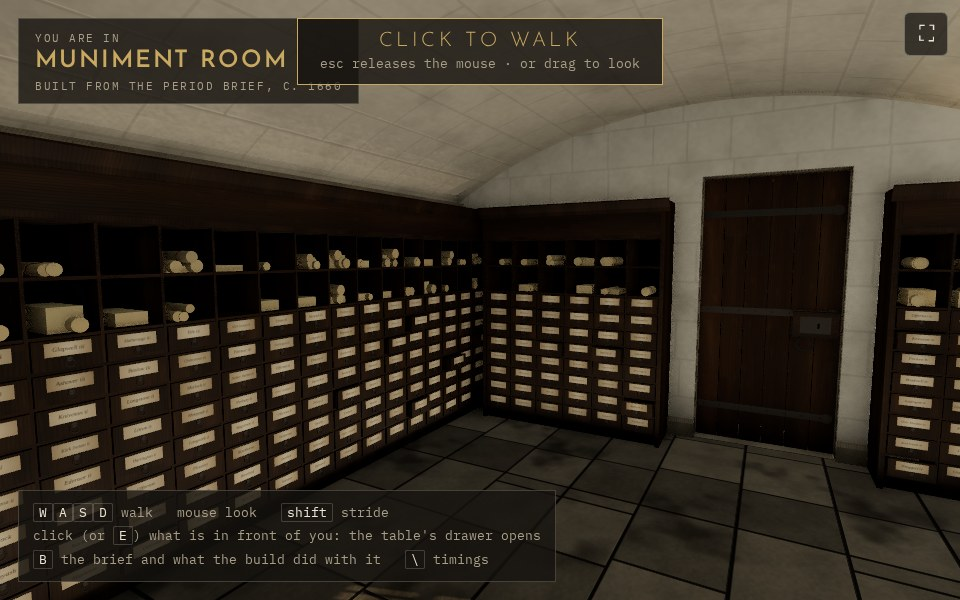
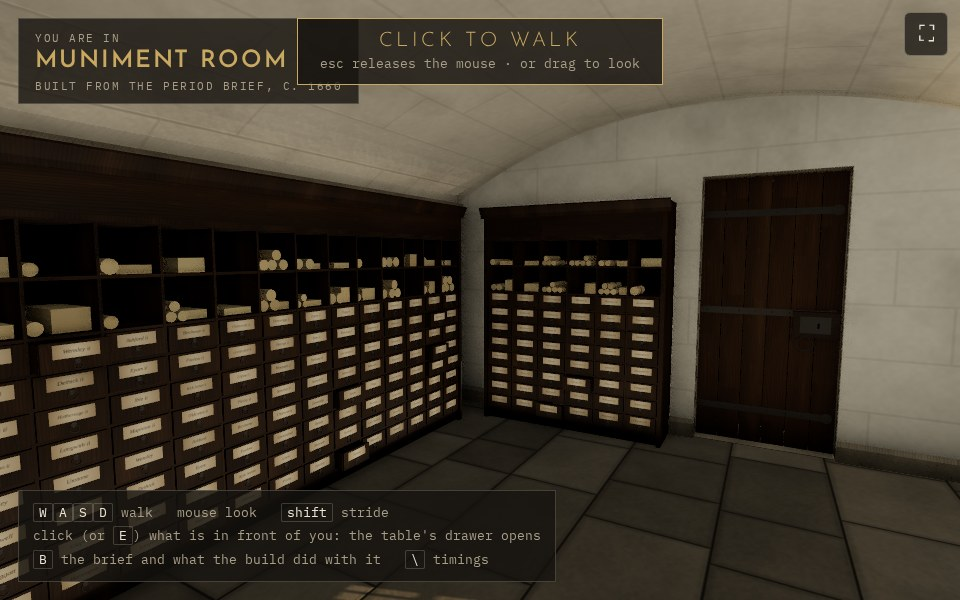
R45 fixes from Kabe's review: pigeonhole rolls and bundles packed, not scattered (no more intersecting); presses keep a press-depth clear of every corner, with a check that nothing stands where another piece needs room to be used (fails on the old build); the strongroom floor as large flags in cours
Claude-Session: https://claude.ai/code/session_017fM5F7BMx42kqDX56eijgW

diff --git a/lab/brief/strongroom.js b/lab/brief/strongroom.js
@@ -4,7 +4,7 @@
 // pigeonholes of rolled deeds over; an iron-bound chest under two locks; and the table with the drawer
 // (procedural.js). Everything from the kit (procedural.js makeKit): no image, no mesh file.
 import { mergeGeometries } from "three/addons/utils/BufferGeometryUtils.js";
-import { buildDesk, rect, slab, quad, run, loft, metric, metricAny, block, rng, hash, leadedTexture, outsideTexture, stoneTexture, grime, canvasTex, normalFrom, fbm } from "../painted/procedural.js";
+import { buildDesk, rect, slab, quad, run, loft, metric, metricAny, block, rng, hash, leadedTexture, outsideTexture, stoneTexture, grime, canvasTex, normalFrom, fbm, smooth } from "../painted/procedural.js";
 
 const PLACE = (W, D) => ({ N: { pos: [0, 0, -D], rot: 0 }, S: { pos: [W, 0, 0], rot: Math.PI }, E: { pos: [W, 0, -D], rot: -Math.PI / 2 }, W: { pos: [0, 0, 0], rot: Math.PI / 2 } });
 
@@ -39,23 +39,68 @@ function buckets(THREE, K) {
   };
 }
 
-// limewash over coursed stone: near white, washed on unevenly, the courses faintly showing through
-function limewashTexture(THREE, N = 512) {
-  const H = new Float32Array(N * N), cuts = [];
-  const NC = 6, r = rng(1660); for (let j = 0; j < NC; j++) { const c = []; let x = r() * 0.2; while (x < 1) { c.push(x); x += 0.16 + r() * 0.2; } cuts.push(c); }
+// limewash over coursed ashlar: near white, washed on unevenly, the courses showing through faintly.
+// Stones as a mason lays them: level courses 0.4 m high, each stone 0.75–1.3 m long, every joint
+// broken over the stone below; a 4 m tile, so no wall shows the pattern twice.
+function limewashTexture(THREE, N = 1024) {
+  const TILE = 4, COURSE = 0.4, NC = TILE / COURSE, H = new Float32Array(N * N), cuts = [];
+  const r = rng(1660);
+  for (let j = 0; j < NC; j++) {
+    // joints in tile units, periodic; each course's joints kept clear of the course below's
+    const below = cuts[j - 1] || [], c = [];
+    let x = r() * 0.3;
+    while (x < 1) {
+      let t = x;
+      for (let k = 0; k < 6 && below.some(b => Math.min(Math.abs(t - b), 1 - Math.abs(t - b)) < 0.06); k++) t += 0.035;
+      c.push(t % 1); x = t + (0.75 + r() * 0.55) / TILE;
+    }
+    if (c.length > 1 && 1 - c[c.length - 1] + c[0] < 0.6 / TILE) c.pop();      // no sliver where the course wraps
+    cuts.push(c);
+  }
   const map = canvasTex(THREE, N, N, (d) => {
     for (let y = 0; y < N; y++) for (let x = 0; x < N; x++) {
       const u = x / N, v = y / N, row = Math.floor(v * NC), fv = v * NC - row;
-      const cs = cuts[row]; let du = 1; for (const c of cs) du = Math.min(du, Math.abs(u - c), Math.abs(u - c - 1), Math.abs(u - c + 1));
-      const joint = Math.min(fv, 1 - fv) < 0.025 || du < 0.004;   // the wash has filled the joints: they show as a shallow line
-      const m = fbm(u * 4, v * 4, 4, 4, 4, 71), f = fbm(u * 64, v * 64, 64, 64, 2, 73), wash = fbm(u * 7, v * 7, 7, 7, 3, 79);
-      const k = (0.9 + 0.1 * m + 0.04 * f) * (joint ? 0.95 : 1) * (1 - 0.06 * Math.max(0, wash - 0.55) * 4), o = (y * N + x) * 4;
-      d[o] = 224 * k; d[o + 1] = 219 * k; d[o + 2] = 204 * k; d[o + 3] = 255;
-      H[y * N + x] = (joint ? -0.22 : 0) + m * 0.45 + f * 0.25;
+      let du = 1; for (const c of cuts[row]) { const a = Math.abs(u - c); du = Math.min(du, a, 1 - a); }
+      const jt = Math.min(Math.min(fv, 1 - fv) / NC, du) * TILE;             // metres to the nearest joint
+      const joint = 1 - smooth(0.004, 0.012, jt);                              // the wash has filled it: a soft shallow line
+      const m = fbm(u * 8, v * 8, 8, 8, 4, 71), f = fbm(u * 128, v * 128, 128, 128, 2, 73), wash = fbm(u * 14, v * 14, 14, 14, 3, 79);
+      const k = (0.91 + 0.09 * m + 0.035 * f) * (1 - 0.05 * joint) * (1 - 0.05 * Math.max(0, wash - 0.55) * 4), o = (y * N + x) * 4;
+      d[o] = 226 * k; d[o + 1] = 221 * k; d[o + 2] = 206 * k; d[o + 3] = 255;
+      H[y * N + x] = -0.18 * joint + m * 0.45 + f * 0.22;
     }
   });
-  for (const t of [map]) t.repeat.set(0.5, 0.5);
-  const nm = normalFrom(THREE, H, N, N, 1.2); nm.repeat.set(0.5, 0.5);
+  map.repeat.set(1 / TILE, 1 / TILE);
+  const nm = normalFrom(THREE, H, N, N, 1.2); nm.repeat.set(1 / TILE, 1 / TILE);
+  return { map, normalMap: nm };
+}
+
+// flagstones: large slabs in courses of varied width running across the room, each stone 0.6–1.1 m long,
+// its own tone and wear; joints wrap at the tile's edge (a 4 m tile) so no sliver stone appears
+function flagstoneTexture(THREE, N = 1024) {
+  const TILE = 4, r = rng(1662);
+  // course widths summing exactly to the tile
+  let rows = []; { let y = 0; while (y < TILE - 0.5) { const w = 0.55 + r() * 0.3; rows.push(w); y += w; } const k = TILE / rows.reduce((a, b) => a + b, 0); rows = rows.map(w => w * k); }
+  const edges = [0]; for (const w of rows) edges.push(edges[edges.length - 1] + w / TILE);
+  const cuts = rows.map((_, j) => { const c = []; let x = r() * 0.25; while (x < 1 - 0.0001) { c.push(x); x += (0.6 + r() * 0.5) / TILE; } if (c.length > 1 && 1 - c[c.length - 1] + c[0] < 0.45 / TILE) c.pop(); return c; });
+  const H = new Float32Array(N * N);
+  const map = canvasTex(THREE, N, N, (d) => {
+    for (let y = 0; y < N; y++) {
+      const v = y / N; let row = 0; while (row < rows.length - 1 && v >= edges[row + 1]) row++;
+      const dv = Math.min(v - edges[row], edges[row + 1] - v) * TILE, cs = cuts[row];
+      for (let x = 0; x < N; x++) {
+        const u = x / N;
+        let k0 = cs.length - 1; for (let q = 0; q < cs.length; q++) if (cs[q] <= u) k0 = q;      // which stone (wrapping)
+        let du = 1; for (const c of cs) { const a = Math.abs(u - c); du = Math.min(du, a, 1 - a); }
+        const jt = Math.min(dv, du * TILE), joint = 1 - smooth(0.002, 0.009, jt), edge = 1 - smooth(0.008, 0.05, jt);
+        const t = hash(k0, row, 53), m = fbm(u * 16 + k0 * 0.37, v * 16, 16, 16, 4, 57 + (k0 % 5)), f = fbm(u * 160, v * 160, 160, 160, 2, 59);
+        const stone = (0.78 + 0.22 * t + 0.16 * m + 0.06 * f) * (1 - 0.1 * edge), k = stone + (0.56 - stone) * joint, o = (y * N + x) * 4;   // lime-pointed joints: darker, not black
+        d[o] = 122 * k; d[o + 1] = 114 * k; d[o + 2] = 100 * k; d[o + 3] = 255;
+        H[y * N + x] = -0.6 * joint - 0.25 * edge + m * 0.3 + f * 0.2 + t * 0.1;
+      }
+    }
+  });
+  map.repeat.set(1 / TILE, 1 / TILE);
+  const nm = normalFrom(THREE, H, N, N, 1.6); nm.repeat.set(1 / TILE, 1 / TILE);
   return { map, normalMap: nm };
 }
 
@@ -72,8 +117,7 @@ export function strongroomMaterials(THREE, K) {
   const parch = new THREE.MeshStandardMaterial({ color: 0xcdb98e, roughness: 0.92, vertexColors: true }); parch.userData.cls = "parchment";
   const tape = new THREE.MeshStandardMaterial({ color: 0x7a2a22, roughness: 0.8 }); tape.userData.cls = "tape";
   const dark = new THREE.MeshStandardMaterial({ color: 0x0b0806, roughness: 1 }); dark.userData.cls = "dark";
-  const flags = new THREE.MeshStandardMaterial({ map: M.flags.map, normalMap: M.flags.normalMap, roughness: 0.82 }); flags.userData.cls = "flags";
-  for (const t of [flags.map, flags.normalMap]) { t.wrapS = t.wrapT = THREE.RepeatWrapping; }
+  const flags = new THREE.MeshStandardMaterial({ ...flagstoneTexture(THREE), roughness: 0.8 }); flags.userData.cls = "flags";
   return (K.SR = { iron, dressed, lime, vault, parch, tape, dark, flags, doorOak });
 }
 
@@ -254,20 +298,27 @@ function press(THREE, K, S, B, e, labels) {
     const pl = new THREE.CylinderGeometry(0.011, 0.011, 0.004, 10); pl.rotateX(Math.PI / 2); pl.translate(cx, cy - 0.022, fz + 0.002); B.add(pl, S.iron, 0.15);
     const ring = new THREE.TorusGeometry(0.016, 0.0028, 6, 16, Math.PI * 2); ring.rotateX(-0.35); ring.translate(cx, cy - 0.038, fz + 0.007); B.add(ring, S.iron, 0.15);
   }
-  // pigeonholes: rolled deeds and folded bundles, tied with tape, lying deep in each hole
+  // pigeonholes: rolled deeds and folded bundles, tied with tape, lying deep in each hole. Packed, not
+  // scattered: rolls of one size lie side by side on the floor of the hole, a few more rest in the
+  // grooves between them, and a bundle takes whatever width the rolls leave.
   for (let j = 0; j < e.pigeonholes; j++) for (let i = 0; i < e.cols; i++) {
-    const cx = x0 + (i + 0.5) * cw, by = yD + j * ph + 0.008;
-    const nRoll = Math.floor(r() * 4);
-    for (let q = 0; q < nRoll; q++) {
-      const rad = 0.022 + r() * 0.018, len = Dp * (0.55 + r() * 0.35);
-      const g = new THREE.CylinderGeometry(rad, rad, len, 12); g.rotateX(Math.PI / 2);
-      const x = cx - cw / 2 + 0.03 + rad + r() * (cw - 0.06 - 2 * rad), y = by + rad + (q > 1 ? rad * 1.6 : 0);
-      g.translate(x, y, Dp - len / 2 - 0.02 - r() * 0.03); B.add(g, S.parch, 0.24);
-      if (r() < 0.6) { const t = new THREE.TorusGeometry(rad + 0.001, 0.0025, 4, 14); t.translate(x, y, Dp - len * 0.4); B.add(t, S.tape); }
-    }
-    if (r() < 0.55) {
-      const bw = cw * (0.4 + r() * 0.3), bh = 0.03 + r() * 0.08;
-      const g = metric(new THREE.BoxGeometry(bw, bh, Dp * 0.7)); g.translate(cx + (r() - 0.5) * (cw - bw - 0.04) * 0.8, by + bh / 2, Dp * 0.45); B.add(g, S.parch, 0.3);
+    const left = x0 + i * cw + 0.007 + 0.004, right = x0 + (i + 1) * cw - 0.007 - 0.004, by = yD + j * ph + 0.008;
+    const roof = yD + (j + 1) * ph - 0.008 - 0.004;
+    const R = 0.022 + r() * 0.016, fit = Math.floor((right - left) / (2 * R + 0.003));
+    const nLow = Math.min(fit, Math.floor(r() * (fit + 1)));
+    const roll = (x, y) => {
+      const len = Dp * (0.55 + r() * 0.3), z = Dp - len / 2 - 0.025 - r() * 0.03;
+      const g = new THREE.CylinderGeometry(R, R, len, 12); g.rotateX(Math.PI / 2); g.translate(x, y, z); B.add(g, S.parch, 0.24);
+      if (r() < 0.6) { const t = new THREE.TorusGeometry(R + 0.0012, 0.0025, 4, 14); t.translate(x, y, z + len * 0.12); B.add(t, S.tape); }
+    };
+    const xs = [];
+    for (let q = 0; q < nLow; q++) { const x = left + R + q * (2 * R + 0.003); xs.push(x); roll(x, by + R); }
+    // a second tier in the grooves, if the hole is tall enough
+    for (let q = 0; q + 1 < xs.length; q++) if (r() < 0.45 && by + R + Math.sqrt(3) * (R + 0.0015) + R < roof) roll((xs[q] + xs[q + 1]) / 2, by + R + Math.sqrt(3) * (R + 0.0015));
+    const used = nLow ? xs[xs.length - 1] + R + 0.006 : left;
+    if (right - used > 0.06 && r() < 0.7) {
+      const bw = Math.min(right - used, cw * (0.35 + r() * 0.35)), bh = Math.min(roof - by, 0.03 + r() * 0.08);
+      const g = metric(new THREE.BoxGeometry(bw - 0.004, bh, Dp * 0.7)); g.translate(right - bw / 2, by + bh / 2, Dp * 0.45); B.add(g, S.parch, 0.3);
     }
   }
   return { r0: e.r0, r1: e.r1, depth: Dp + 0.06 };
@@ -313,7 +364,7 @@ export function buildStrongroom(THREE, K, spec, names) {
   const v = spec.finish.vault, span = v.axis === "EW" ? D : W;
   const arc = vaultArc(span, v.spring, v.crown);
   // the floor: flags, 2 m to the tile
-  { const g = new THREE.PlaneGeometry(W, D); const uv = g.attributes.uv; for (let i = 0; i < uv.count; i++) uv.setXY(i, uv.getX(i) * W / 2, uv.getY(i) * D / 2);
+  { const g = new THREE.PlaneGeometry(W, D); const uv = g.attributes.uv; for (let i = 0; i < uv.count; i++) uv.setXY(i, uv.getX(i) * W, uv.getY(i) * D);
     const f = new THREE.Mesh(g, S.flags); f.rotation.x = -Math.PI / 2; f.position.set(W / 2, 0, -D / 2); f.receiveShadow = true;
     f.userData = { instance: "floor", material: "flags", owner: "floor" }; grp.add(f); }
   // the vault: a segmental barrel from springing wall to springing wall, limewashed stone

diff --git a/lab/brief/brief.js b/lab/brief/brief.js
@@ -43,6 +43,25 @@ function spans(fr, F, elems, taken, depth, tall, clear = 0.12) {
   return out.filter(([a, b]) => b - a > 0.05);
 }
 
+// every floor item's box in plan metres, and the strip in front of it that its use needs clear
+// (drawers pulled, the chest's lid, a chair at the table)
+export function footprints(out) {
+  const room = { rect: out.room.rect }, res = [];
+  const front = { press: 0.4, chest: 0.3, desk: 0.5 };
+  for (const [F, es] of Object.entries(out.walls)) {
+    const fr = wallFrame(room, F);
+    for (const e of es) {
+      if (!(e.kind in front)) continue;
+      const [a, b] = e.kind === "press" ? [e.r0, e.r1] : [e.r - (e.width ?? e.w) / 2, e.r + (e.width ?? e.w) / 2];
+      const d = e.kind === "press" ? e.depth + 0.05 : e.kind === "chest" ? e.d : e.depth;
+      const box = boxOf(fr, a, b, d), all = boxOf(fr, a + 0.02, b - 0.02, d + front[e.kind]);
+      res.push({ id: e.id, F, box, use: all });
+    }
+  }
+  return res;
+}
+export { overlaps };
+
 export function compileBrief(plan, roomId, brief) {
   const t0 = typeof performance !== "undefined" ? performance.now() : Date.now();
   const room = plan.rooms.find(r => r.id === roomId);
@@ -149,7 +168,11 @@ export function compileBrief(plan, roomId, brief) {
     let label = 0;
     const order = ["N", "S", "E", "W"].sort((a, b) => walls[a].filter(e => e.kind !== "chimneypiece").length - walls[b].filter(e => e.kind !== "chimneypiece").length);
     for (const F of order) {
-      for (const [a, b] of spans(frames[F], F, walls[F], taken, p.depth, p.height)) {
+      // presses keep out of the corners: one running into a corner would sit behind its neighbour's end,
+      // its last drawers blocked; the corner is left as a square of open floor
+      const cc = p.depth + 0.06, L = frames[F].L;
+      for (let [a, b] of spans(frames[F], F, walls[F], taken, p.depth, p.height)) {
+        a = Math.max(a, cc); b = Math.min(b, L - cc);
         const n = Math.floor((b - a - 0.08) / cols);
         if (n < 3) continue;          // a press narrower than three columns is a cupboard, not a press
         const w = n * cols + 0.08, r0 = a + (b - a - w) / 2;

diff --git a/lab/painted/procedural.js b/lab/painted/procedural.js
@@ -182,7 +182,7 @@ function stoneTexture(THREE, N = 512, base = [118, 108, 90], blots = true) {
 function flagTexture(THREE, N = 768) {
   const H = new Float32Array(N * N), r = rng(51);
   const rows = [0, 0.52, 1.0, 1.46, 2.0].map(v => v / 2);     // course lines in tile units (tile = 2 m)
-  const cuts = rows.slice(0, -1).map(() => { const c = [0]; let x = 0.25 + r() * 0.1; while (x < 0.95) { c.push(x); x += 0.28 + r() * 0.12; } return c; });
+  const cuts = rows.slice(0, -1).map(() => { const c = [0]; let x = 0.25 + r() * 0.1; while (x < 0.95) { c.push(x); x += 0.28 + r() * 0.12; } if (1 - c[c.length - 1] < 0.2) c.pop(); return c; });   // no sliver where a course wraps
   const map = canvasTex(THREE, N, N, (d) => {
     for (let y = 0; y < N; y++) for (let x = 0; x < N; x++) {
       const u = x / N, v = y / N, row = rows.findIndex((a, i) => v >= a && v < rows[i + 1]);

diff --git a/lab/RECEIPTS.md b/lab/RECEIPTS.md
@@ -19,7 +19,35 @@ build a place in the time it takes to walk to it. One receipt per piece, newest 
 
 | Date | Piece | Wall-clock | New pieces | New lines | Compile | Build | Walkable (no bake) |
 |---|---|---|---|---|---|---|---|
+| 2026-10-05 | R45 fixes from your review (rolls, corners, stonework, floor) | 7 min | 1 (flagstones) | ~110 | 11 ms | 1.38 s | 5.8 s |
 | 2026-10-05 | R45 muniment room from the period brief | 19 min | 7 | ~1,000 | 10 ms | 0.43 s | 5.1 s |
+
+---
+
+## R45, fix round: what your eye caught (2026-10-05)
+
+You found three faults:
+1. rolls and bundles pushed into one another;
+2. presses overlapping at a corner;
+3. the floor's stone chopped into small random rectangles.
+
+**Wall-clock: about 7 min, from 08:36 to 08:43**, with no research or design.
+
+| Fault | Cause | Fix | Now guarded by |
+|---|---|---|---|
+| Rolls and bundles intersecting | Placed at random x in each pigeonhole, with a second tier floating at a fixed height | Packed: rolls of one size side by side, the second tier resting in the grooves, the bundle in the width left | Construction; nothing random is left to collide |
+| A press running behind its neighbour in the corner | The north press ran into the corner; the east press stood in front of its last column, and those drawers couldn't open | Presses stop one press-depth short of every corner, leaving a square of open floor | A new check, run by `tools/brief-check.mjs` and the test: nothing stands where another piece needs room to be used (drawers pulled, a lid raised). It fails on the old build. |
+| Floor chopped into small rectangles | The shared flag texture's joints didn't wrap at the 2 m tile edge, leaving sliver stones; the stones were also small | The strongroom gets its own flags: 0.6–1.1 m slabs in courses running across the room, joints offset, a 4 m tile, lime-pointed joints. The shared texture's sliver is fixed too, which helps the manor's halls. | By eye |
+| Wall stone (I also redid it) | 33 cm near-square blocks, randomly cut | Level ashlar courses 0.4 m high, stones 0.75–1.3 m, every joint broken over the one below, joints filled by the wash | By eye |
+
+**What it costs while you walk:**
+- Build went from 0.43 s to 1.38 s, because the two new 1024² stone textures are generated at build time.
+- They belong to the look, not the room: a house built in this look makes them once.
+- Moving them into the kit, with a cache, is the next step for a multi-room build.
+
+**What this round teaches the pipeline:**
+- Every new piece that holds other pieces (presses holding rolls, walls meeting at corners) needs a packing rule, not scatter, and a check that items don't intrude on each other's clearance.
+- Repeating textures need joints that wrap at the tile edge, or the seam shows as a sliver.
 
 ---
 
